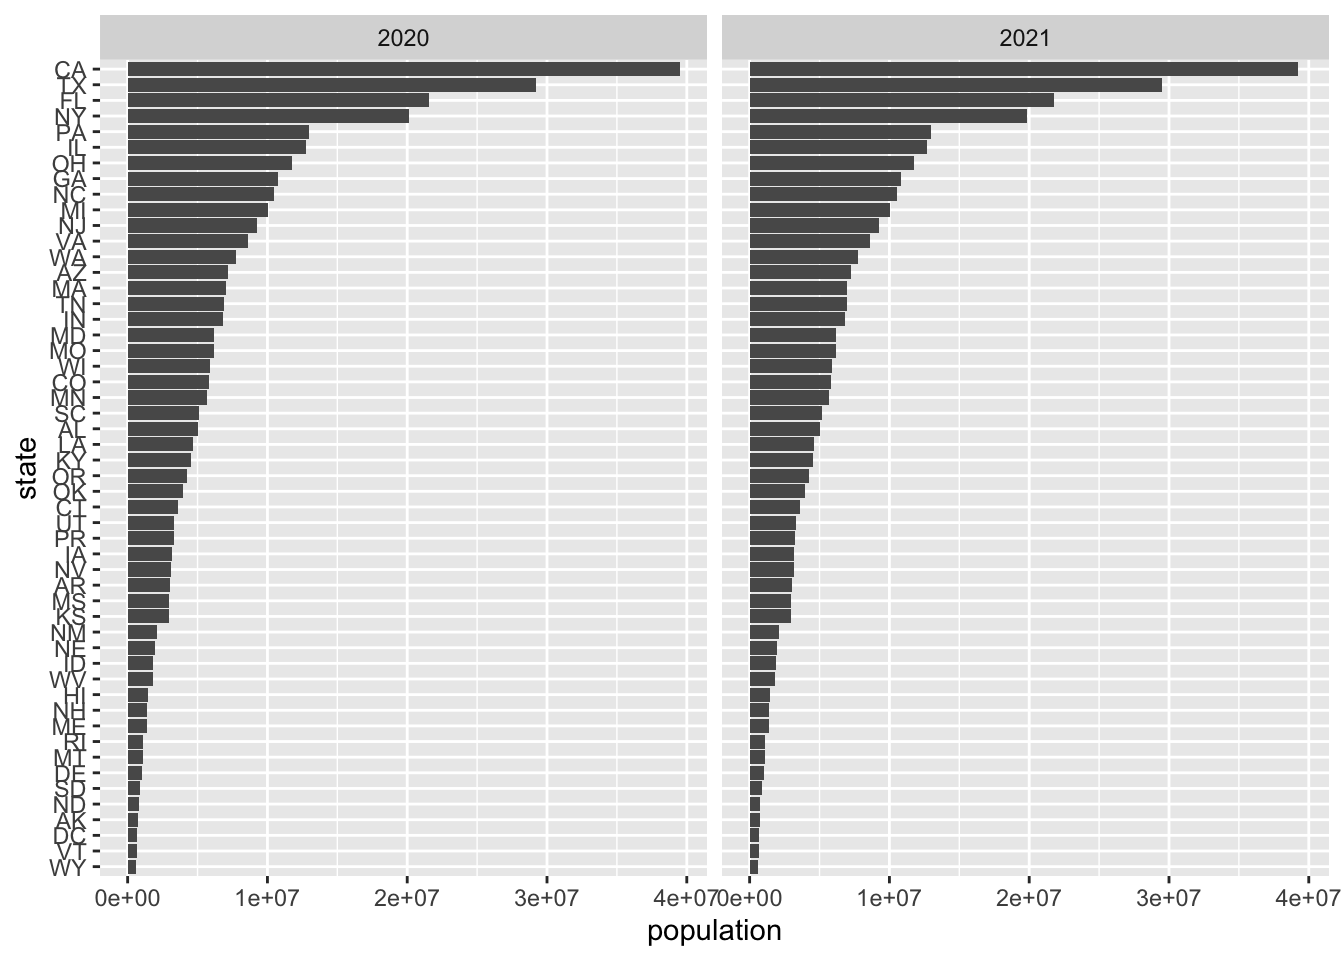
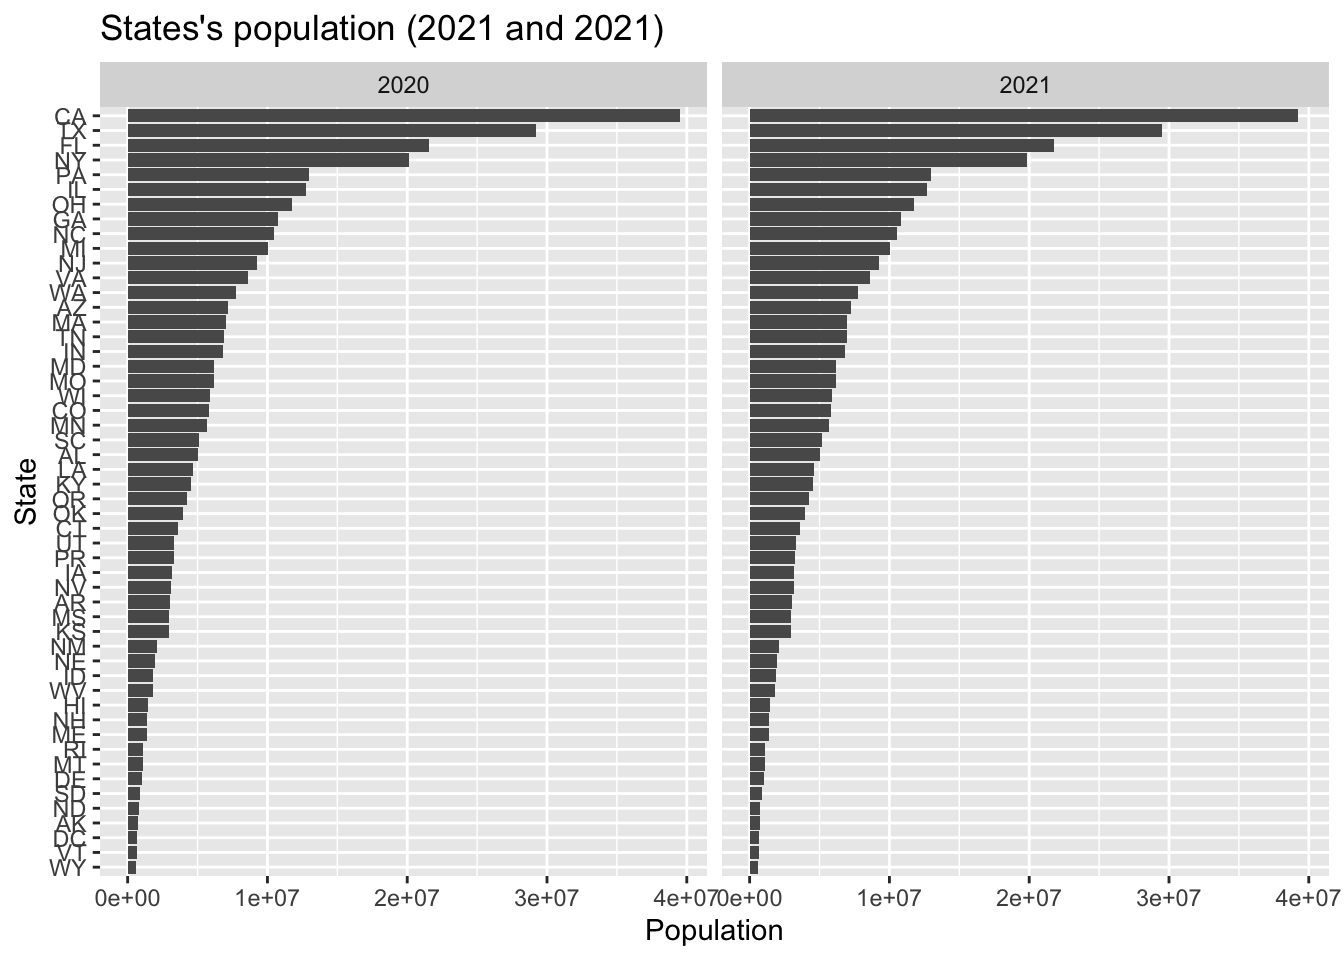
Commit at Oct 2 15:21.

Changed region(s): [[0.0, 0.0, 1.0, 0.9062], [0.4688, 0.9375, 0.5938, 1.0]]

diff --git a/pset-04-wrangling.html b/pset-04-wrangling.html
@@ -234,7 +234,13 @@ window.Quarto = {
 <span id="cb13-9"><a href="#cb13-9" aria-hidden="true" tabindex="-1"></a>  <span class="co"># flip coordinates</span></span>
 <span id="cb13-10"><a href="#cb13-10" aria-hidden="true" tabindex="-1"></a>  <span class="fu">coord_flip</span>() <span class="sc">+</span></span>
 <span id="cb13-11"><a href="#cb13-11" aria-hidden="true" tabindex="-1"></a>  <span class="co"># facet by year</span></span>
-<span id="cb13-12"><a href="#cb13-12" aria-hidden="true" tabindex="-1"></a>  <span class="fu">facet_wrap</span>(<span class="sc">~</span>year)</span></code><button title="Copy to Clipboard" class="code-copy-button"><i class="bi"></i></button></pre></div>
+<span id="cb13-12"><a href="#cb13-12" aria-hidden="true" tabindex="-1"></a>  <span class="fu">facet_wrap</span>(<span class="sc">~</span>year) <span class="sc">+</span> </span>
+<span id="cb13-13"><a href="#cb13-13" aria-hidden="true" tabindex="-1"></a>  <span class="co"># add labels</span></span>
+<span id="cb13-14"><a href="#cb13-14" aria-hidden="true" tabindex="-1"></a>  <span class="fu">labs</span>(</span>
+<span id="cb13-15"><a href="#cb13-15" aria-hidden="true" tabindex="-1"></a>    <span class="at">title =</span> <span class="st">"States's population (2021 and 2021)"</span>,</span>
+<span id="cb13-16"><a href="#cb13-16" aria-hidden="true" tabindex="-1"></a>    <span class="at">x =</span> <span class="st">"State"</span>,</span>
+<span id="cb13-17"><a href="#cb13-17" aria-hidden="true" tabindex="-1"></a>    <span class="at">y =</span> <span class="st">"Population"</span></span>
+<span id="cb13-18"><a href="#cb13-18" aria-hidden="true" tabindex="-1"></a>  )</span></code><button title="Copy to Clipboard" class="code-copy-button"><i class="bi"></i></button></pre></div>
 <div class="cell-output-display">
 <div>
 <figure class="figure">
